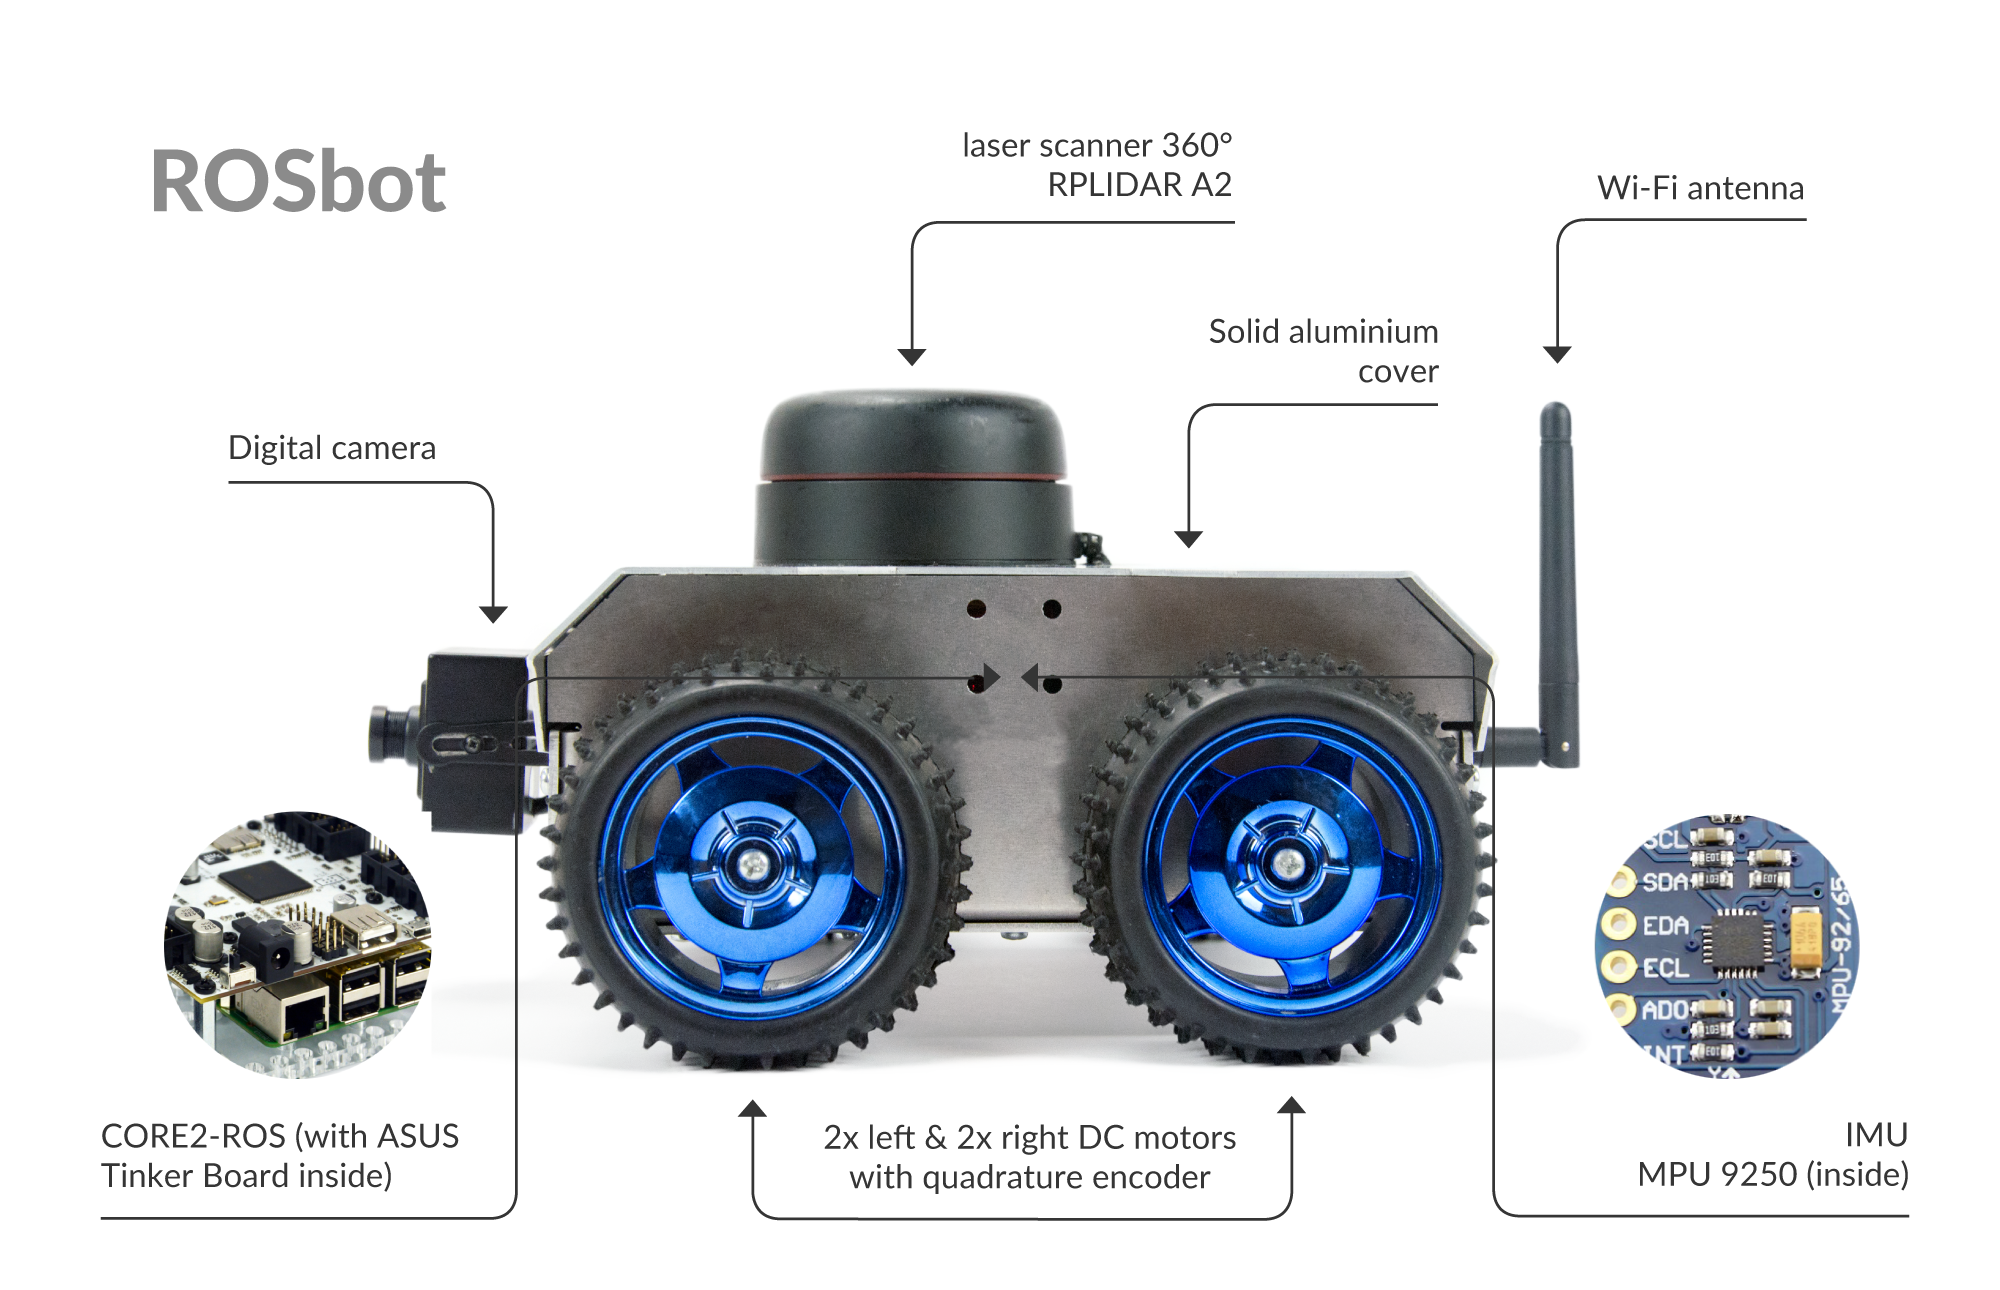
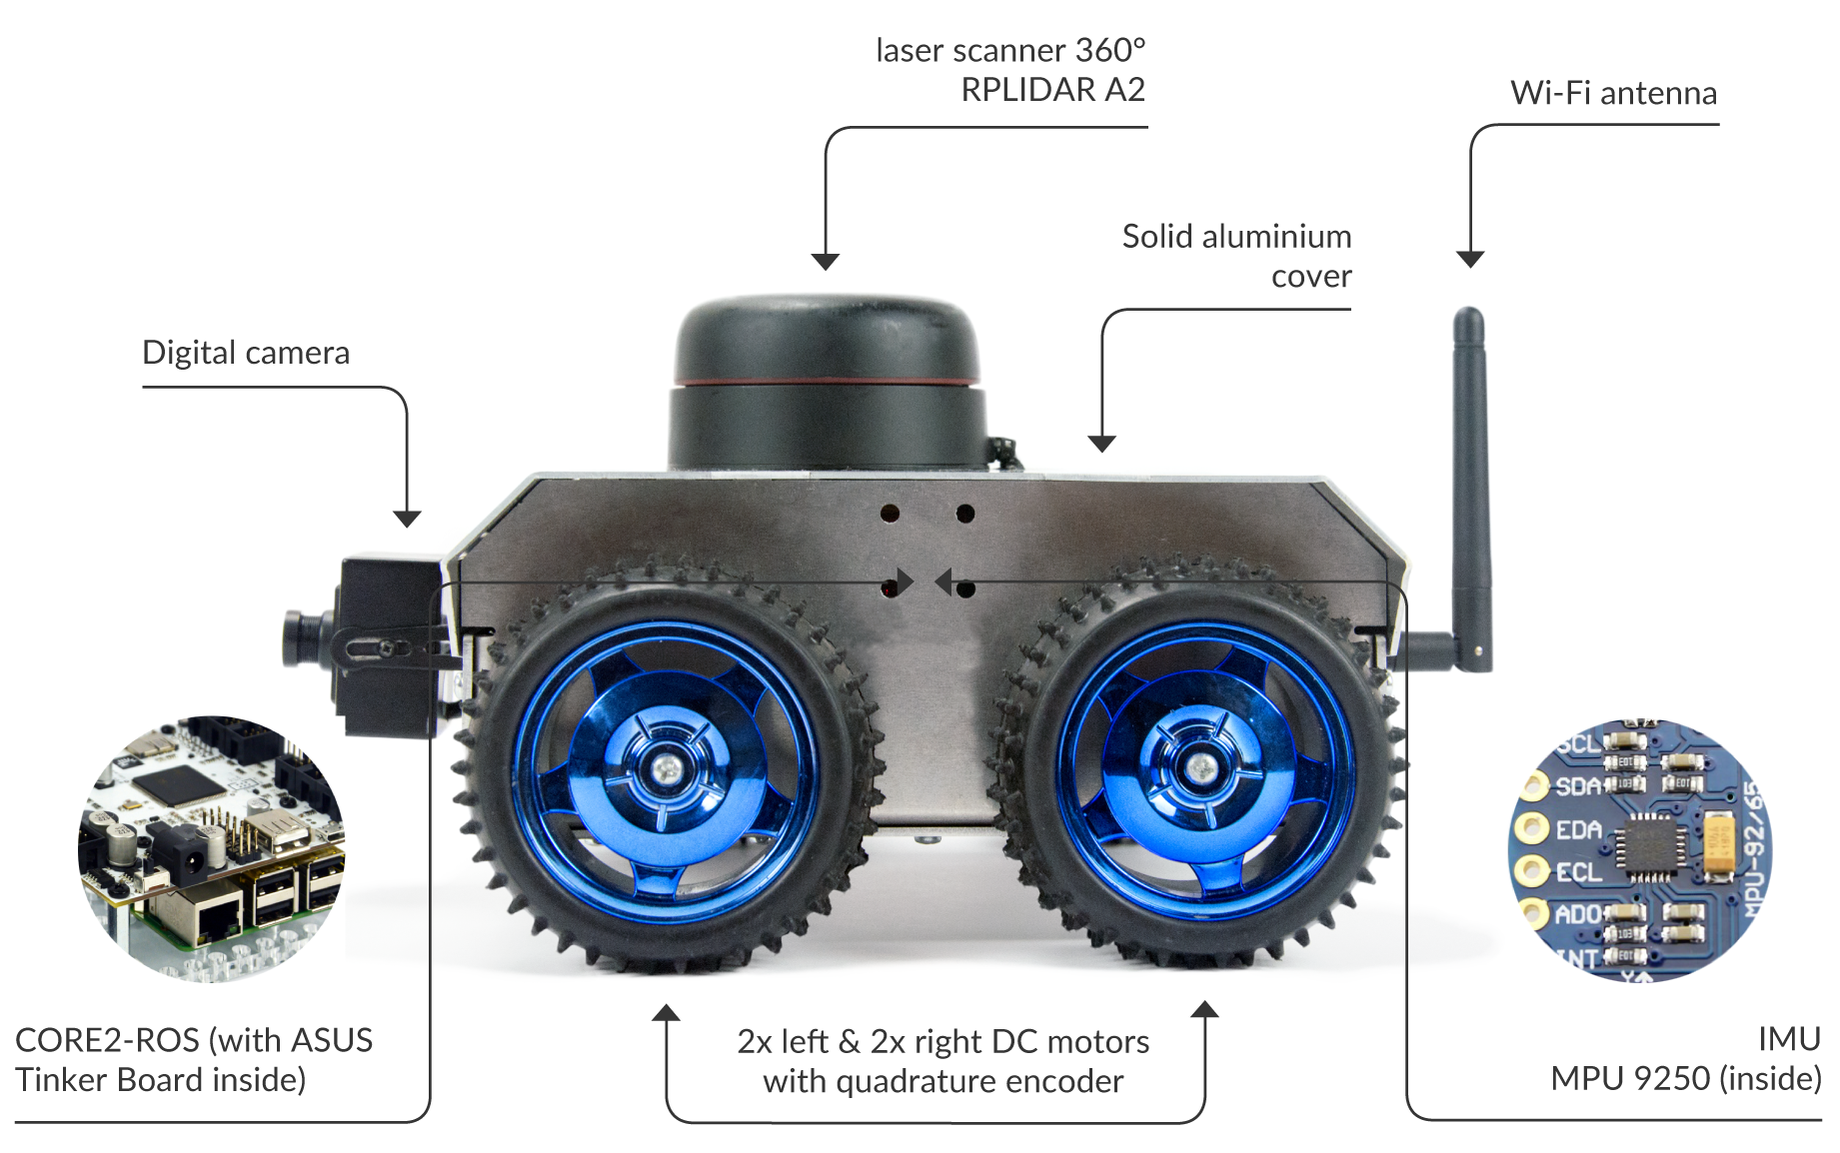
merged the SBC and CORE2 description to the 'CORE2-ROS'

diff --git a/src/core2/manuals/rosbot-manual.md b/src/core2/manuals/rosbot-manual.md
@@ -39,24 +39,22 @@ You can use your ROSbot offline however we recommend connecting to Husarion Clou
 
 ![Scheme back](/assets/img/ROSbot_manual/scheme_back.png "Scheme back")
 
+### Internal connections diagram ###
+
 ![Scheme connection](/assets/img/ROSbot_manual/scheme_connection.png "Scheme connection")
 
+### Components description ###
+
 <table>
-    <tr>Scheme connection
+    <tr>
        <th>Component</th>
        <th>Quantity</th>
        <th>Description</th>
     </tr>
     <tr>
-        <td>CORE2</td>
+        <td>CORE2-ROS</td>
         <td>1</td>
-        <td>A real-time controller board for Internet-connected automation & robotics devices, <a href="https://husarion.com/core2/">details 
-here</a>.</td>
-    </tr>
-    <tr>
-        <td>ASUS Tinker Board</td>
-        <td>1</td>
-        <td>A powerful, single board computer, with Ubuntu-based OS customized to use ROS, <a href="https://www.asus.com/us/Single-Board-Computer/Tinker-Board/">more details</a>.</td>
+        <td>Advanced version of CORE2 with an ASUS Tinker board computer. CORE2 real-time controller is based on STM32F407 microcontroller. The SBC runs on Ubuntu-based OS, customized to use ROS. <a href="https://husarion.com/core2/">More details here</a>.</td>
     </tr>
     <tr>
         <td>LIDAR</td>
@@ -180,12 +178,12 @@ Software for ROSbot can be divided into 2 parts:
 
 ## Connection to Husarion Cloud ##
 
-*Things you need: the ROSbot, any Android device with Wi-Fi connectivity and with hConfig app installed (available on Google Play and appStore), any PC computer to work with ROSbot, the Wi-Fi network.
-*Login or register on cloud.husarion.com.
-*Register your ROSbot on your cloud account by clicking “Add new device”.
-*Launch the hConfig application and follow the instructions.
+* Things you need: the ROSbot, any Android device with Wi-Fi connectivity and with hConfig app installed (available on Google Play and appStore), any PC computer to work with ROSbot, the Wi-Fi network.
+* Login or register on cloud.husarion.com.
+* Register your ROSbot on your cloud account by clicking “Add new device”.
+* Launch the hConfig application and follow the instructions.
 Note: The app will ask you to hold hCfg button on CORE2 and to watch LR1, LR2 LEDs – they are all available on the rear panel.
-*Now you should see your ROSbot online and you can start with ROSbot tutorial.
+* Now you should see your ROSbot online and you can start with ROSbot tutorial.
 
 ## ROS tutorials ##
 
